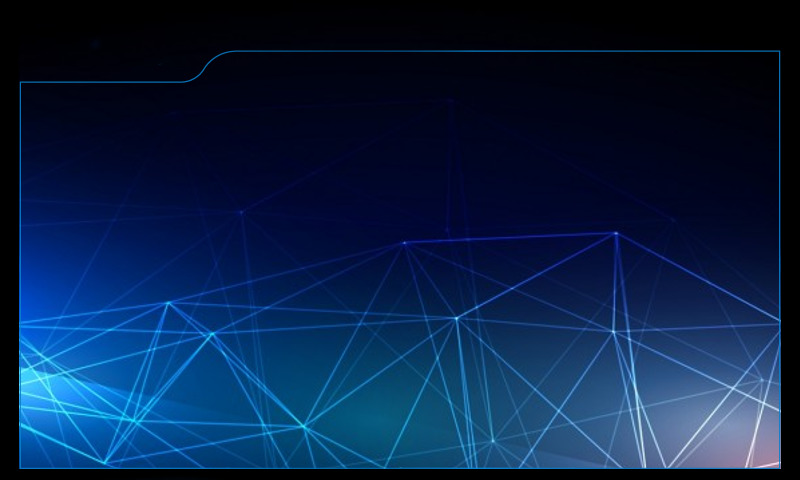
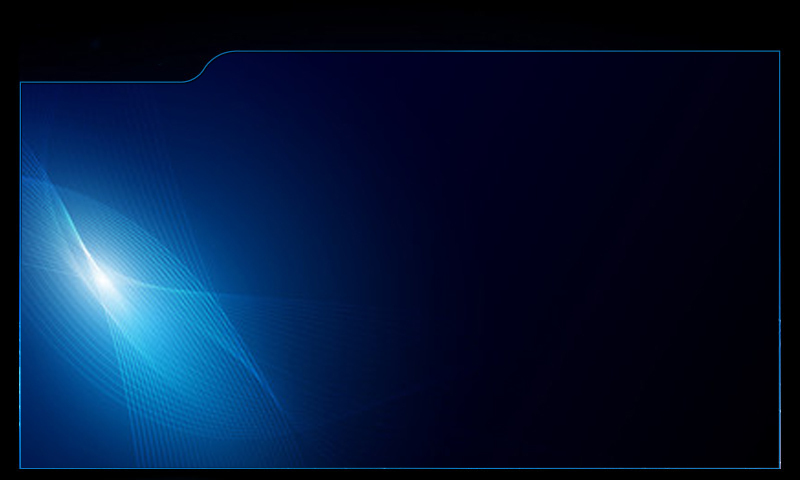
UPDATE: Colors adapted to new background image

diff --git a/src/Components/Statusbar/Statusbar.js b/src/Components/Statusbar/Statusbar.js
@@ -8,8 +8,8 @@ import Wifi from './StatusbarElements/Wifi'
 import Battery from './StatusbarElements/Battery'
 import Clock from './StatusbarElements/Clock'
 
-import Infinity from '../../Assets/Logos/infinity.png'
-import Goldstar from '../../Assets/Logos/goldstar.png'
+import Infinity_D from '../../Assets/Logos/infinity.png'
+import Goldstar_D from '../../Assets/Logos/goldstar.png'
 
 import { DeviceContext } from '../../Contexts/DeviceContext'
 
@@ -21,8 +21,8 @@ class Statusbar extends Component {
 
   getLogo = () =>  {
     switch (this.context.device) {
-      case "infinity": return Infinity
-      case "goldstar": return Goldstar
+      case "infinity": return Infinity_D
+      case "goldstar": return Goldstar_D
 
     
       default:

diff --git a/src/Components/ScanModes/PinPointer/PinPointer.js b/src/Components/ScanModes/PinPointer/PinPointer.js
@@ -93,7 +93,7 @@ class PinPointer extends Component {
       <div className="pin-pointer component">
         <svg className="pin-pointer-grid" width="700" height="260">
           <g>
-            <rect fill="none" x="0.49995" y="0.43749" width="699" height="259" id="svg_2" stroke="#ffffff80" />
+            <rect fill="#000" x="0.49995" y="0.43749" width="699" height="259" id="svg_2" stroke="#ffffff80" />
             <line fill="none" stroke="#ffffff60" x1="0" y1="128" x2="700" y2="128" id="svg_3" />
             <line fill="none" stroke="#ffffff60" x1="0" y1="65" x2="700" y2="65" id="svg_4" />
             <line fill="none" stroke="#ffffff60" x1="0" y1="195" x2="700" y2="195" id="svg_5" />

diff --git a/src/Components/ScanScreen/ScanScreen.js b/src/Components/ScanScreen/ScanScreen.js
@@ -15,7 +15,7 @@ const COLORS = {
 }
 
 const TUNNELSCAN = false
-const IntervalSpeed = 50
+const IntervalSpeed = 800
 
 class ScanScreen extends Component {
   constructor(props) {
@@ -143,7 +143,7 @@ class ScanScreen extends Component {
           else if (this.state.finishScanPopup) {
             if (this.state.finishPopupButtonIndex === true) {
               console.log("pressed ok")
-              fetch('http://192.168.1.114:3030/savescan', {
+              fetch('http://192.168.1.116:3030/savescan', {
                 method: 'POST',
                 headers: {
                   'Accept': 'application/json',

diff --git a/src/Components/Mainmenu/Mainmenu.js b/src/Components/Mainmenu/Mainmenu.js
@@ -149,11 +149,11 @@ class Mainmenu extends Component {
           this.props.navigateTo("mobileGroundScan")
           break
         case 'ok':
+          socketHelper.detach()
           // console.log("mainmenu: ok")
           setCookie("menuIndex", this.state.index)
           this.refs.mainmenu.style.transform = "scale(2)"
           this.refs.mainmenu.style.opacity = 0
-          socketHelper.detach()
 
           setTimeout(() => {
             if (this.buttons[this.state.index + 1].screenName !== "") {

diff --git a/src/Components/FileList/FileList.css b/src/Components/FileList/FileList.css
@@ -1,5 +1,4 @@
 .file-list {
-  background: #000;
   display: flex;
   justify-content: center;
   align-items: center;
@@ -22,9 +21,9 @@
   display: flex;
   justify-content: space-evenly;
   align-items: center;
-  color: white;
+  color: black;
   border-radius: 10px;
-  background: rgba(255, 255, 255, 0.157);
+  background: rgba(255, 255, 255, 0.457);
 }
 
 .file-list .file span {

diff --git a/src/Components/ScanModes/PinPointer/PinPointer.css b/src/Components/ScanModes/PinPointer/PinPointer.css
@@ -2,11 +2,12 @@
   display: flex;
   justify-content: center;
   align-items: flex-start;
-  background: #000;
+  background: #00000000;
 }
 
 .pin-pointer-lines{
   position: absolute;
+  /* background: #000; */
 }
 
 .pinpointer-button-container{

diff --git a/src/Components/Setup/FinishSetup.css b/src/Components/Setup/FinishSetup.css
@@ -1,5 +1,5 @@
 .finish-setup {
-  background: black;
+  /* background: black; */
   transform: translate(-22px, -105px);
   display: flex;
   justify-content: center;

diff --git a/src/Components/ScanModes/LiveStream/LiveStream.css b/src/Components/ScanModes/LiveStream/LiveStream.css
@@ -1,5 +1,4 @@
 .live-stream-component {
-  background: black;
   display: flex;
   flex-direction: column;
   opacity: 0;

diff --git a/src/Components/ScanScreen/ScanScreen.css b/src/Components/ScanScreen/ScanScreen.css
@@ -1,6 +1,6 @@
 .scan-screen {
   display: flex;
-  background: #000;
+  /* background: #000; */
 }
 
 .canvas-container {

diff --git a/src/Components/ScanViewer/ScanViewer.js b/src/Components/ScanViewer/ScanViewer.js
@@ -29,7 +29,6 @@ class ScanViewer extends Component {
     }
     this.widthLimit = 0
     this.heightLimit = 0
-
   }
 
 

diff --git a/src/Components/ScanModes/GroundScan/DeviceGroundScanProperties/DeviceGroundScanProperties.css b/src/Components/ScanModes/GroundScan/DeviceGroundScanProperties/DeviceGroundScanProperties.css
@@ -1,5 +1,5 @@
 .device-ground-scan-properties {
-  background: #000;
+  /* background: #000; */
 }
 
 .dgsp-tabs {

diff --git a/src/Components/Setup/Setup.css b/src/Components/Setup/Setup.css
@@ -1,5 +1,5 @@
 .setup{
-  background: black;
+  /* background: black; */
 }
 
 .setup-language-selector{
